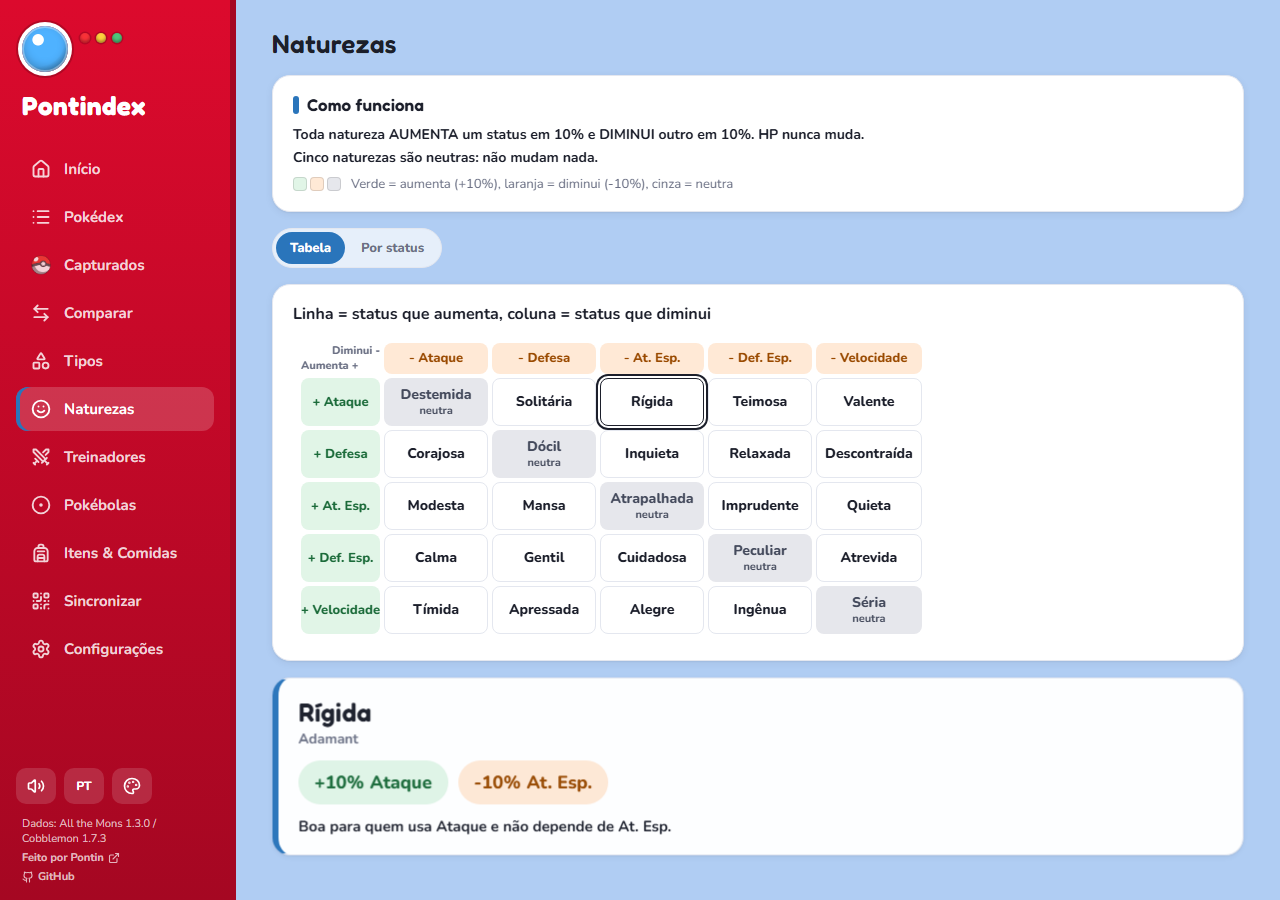
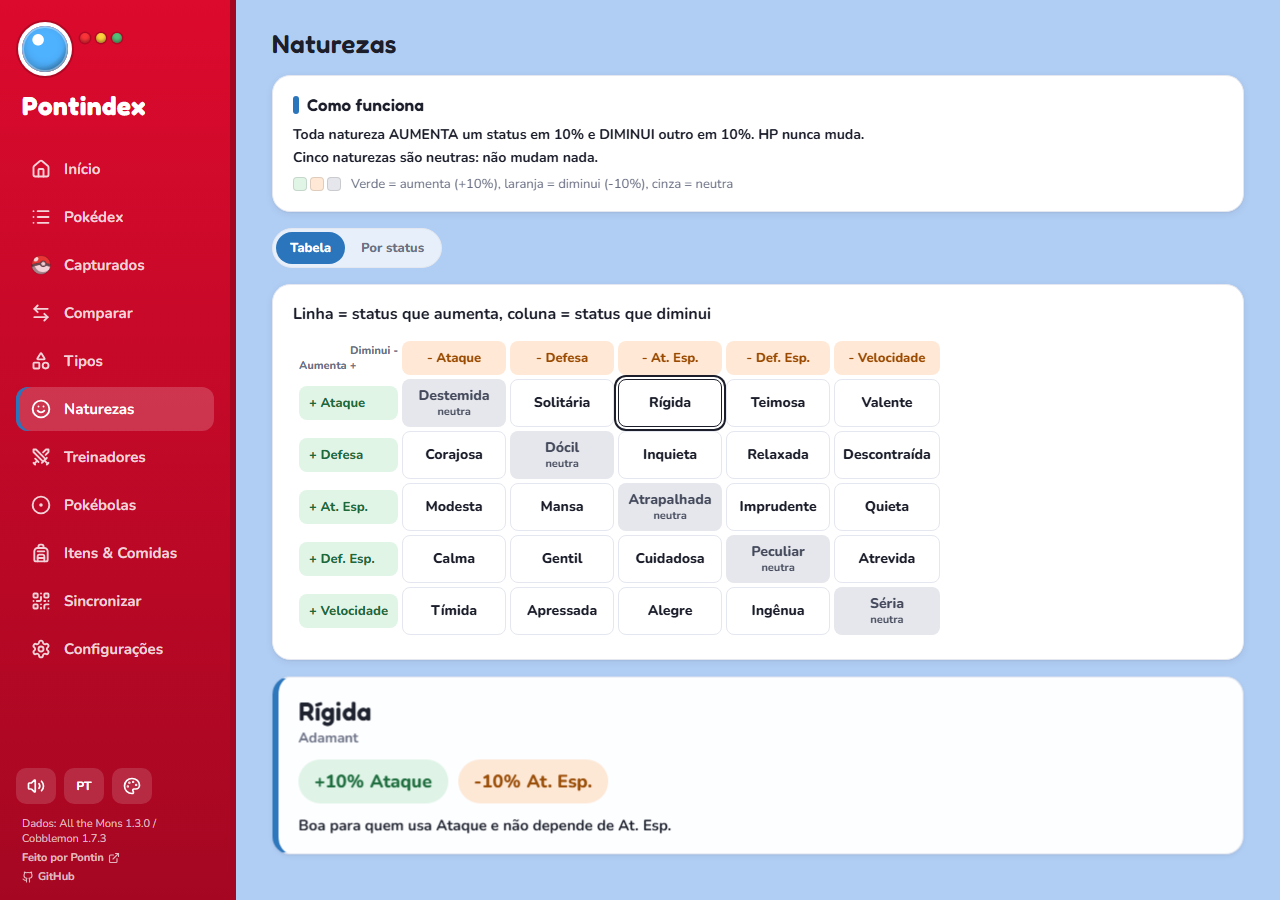
fix(natures): tabela no celular sem celula cortada atras da coluna fixa
Coluna fixa com fundo opaco em toda a celula (espacos viram padding, sem border-spacing); no celular larguras fixas, container com colunas inteiras e encaixe por coluna (3 colunas em 360 px); rotulo do canto cabe na celula. e2e cobre rolagem ate o fim em 360 e 390. Capturas refeitas, mais table-360-scrolled.

diff --git a/src/screens/Natures/natures.css b/src/screens/Natures/natures.css
@@ -13,21 +13,19 @@
 .natures-screen .nt-swatches { display: inline-flex; gap: 3px; flex: none; }
 .natures-screen .nt-swatches i { display: block; width: 14px; height: 14px; border-radius: 4px; border: 1px solid rgba(0, 0, 0, .12); }
 .natures-screen .nt-instr { margin: 0; font-weight: 700; color: var(--muted); }
-/* tabela 5 x 5: linha = aumenta (verde), coluna = diminui (laranja); 1a coluna fixa e opaca */
+/* tabela 5 x 5: linha = aumenta (verde), coluna = diminui (laranja). Sem border-spacing: o espaco entre os blocos e
+   padding da celula, entao a 1a coluna fixa tem fundo opaco em toda a largura e nada rolado aparece por baixo dela */
 .natures-screen .nt-caption { margin: 0 0 10px; font-weight: 700; }
 .natures-screen .nt-table-scroll { max-width: 100%; overflow-x: auto; overflow-y: hidden; padding: 4px; }
-.natures-screen .nt-table { border-collapse: separate; border-spacing: 4px; }
-.natures-screen .nt-table th, .natures-screen .nt-table td { padding: 0; text-align: center; vertical-align: middle; }
-.natures-screen .nt-col-head, .natures-screen .nt-row-head { border-radius: 8px; padding: 8px 10px; font-size: 13px; font-weight: 800; white-space: nowrap; }
-.natures-screen .nt-row-head { text-align: left; }
-.natures-screen .nt-corner { display: table-cell; font-size: 11px; font-weight: 800; color: var(--muted); line-height: 1.4; }
-.natures-screen .nt-corner span { display: block; white-space: nowrap; }
+.natures-screen .nt-table { border-collapse: separate; border-spacing: 0; }
+.natures-screen .nt-table th, .natures-screen .nt-table td { padding: 2px; text-align: center; vertical-align: middle; }
+.natures-screen .nt-head { display: block; border-radius: 8px; padding: 8px 10px; font-size: 13px; font-weight: 800; white-space: nowrap; }
+.natures-screen .nt-row-head .nt-head { text-align: left; }
+.natures-screen .nt-corner-box { display: grid; gap: 0; font-size: 11px; font-weight: 800; color: var(--muted); line-height: 1.4; }
+.natures-screen .nt-corner-box span { display: block; white-space: nowrap; }
 .natures-screen .nt-corner-col { text-align: right; }
 .natures-screen .nt-corner-row { text-align: left; }
-.natures-screen .nt-row-head, .natures-screen .nt-corner { position: sticky; left: 0; z-index: 1; }
-.natures-screen .nt-corner { background: var(--surface); box-shadow: -8px 0 0 var(--surface), 4px 0 0 var(--surface); }
-/* cobre o padding do container (4px) e o border-spacing (4px): nenhuma celula rolada aparece em volta da coluna fixa */
-.natures-screen .nt-row-head { box-shadow: -8px 0 0 var(--surface), 4px 0 0 var(--surface); }
+.natures-screen .nt-row-head, .natures-screen .nt-corner { position: sticky; left: 0; z-index: 1; background: var(--surface); }
 .natures-screen .nt-pick {
   display: grid; place-items: center; align-content: center; gap: 0; width: 100%; min-width: 104px; min-height: 48px; padding: 6px 8px;
   border-radius: 8px; border: 1px solid var(--border); background: var(--surface); color: var(--text);
@@ -75,10 +73,18 @@ html[data-theme="green"] .natures-screen :focus-visible, html[data-theme="blue"]
 .app.mobile .natures-screen .nt-legend-color { gap: 6px; margin-top: 4px; font-size: 12px; line-height: 1.25; }
 .app.mobile .natures-screen .nt-swatches i { width: 10px; height: 10px; border-radius: 3px; }
 .app.mobile .natures-screen .nt-caption { font-size: 13px; }
-.app.mobile .natures-screen .nt-table { border-spacing: 3px; }
-.app.mobile .natures-screen .nt-col-head, .app.mobile .natures-screen .nt-row-head { padding: 6px 6px; font-size: 11px; }
-.app.mobile .natures-screen .nt-corner { font-size: 10px; }
-.app.mobile .natures-screen .nt-pick { min-width: 84px; min-height: 42px; padding: 4px 6px; font-size: 12px; }
+/* tabela no celular: larguras fixas (1a coluna 72 px, colunas de dados 76 px com o padding; 3 colunas inteiras em 360 px), container com largura de
+   colunas inteiras (round) e encaixe por coluna: nenhuma celula fica cortada junto da coluna fixa, nem rolada ate o fim */
+.app.mobile .natures-screen .nt-table-scroll {
+  padding: 0; width: calc(72px + round(down, 100% - 72px, 76px)); scroll-snap-type: x mandatory; scroll-padding-left: 72px;
+}
+.app.mobile .natures-screen .nt-col-head { scroll-snap-align: start; }
+.app.mobile .natures-screen .nt-table-panel { padding: 12px 10px; }
+.app.mobile .natures-screen .nt-row-head .nt-head, .app.mobile .natures-screen .nt-corner-box { width: 68px; box-sizing: border-box; }
+.app.mobile .natures-screen .nt-head { padding: 6px 4px; font-size: 11px; white-space: normal; }
+.app.mobile .natures-screen .nt-col-head .nt-head { width: 72px; padding: 6px 2px; box-sizing: border-box; white-space: nowrap; }
+.app.mobile .natures-screen .nt-corner-box { font-size: 10px; }
+.app.mobile .natures-screen .nt-pick { width: 72px; min-width: 0; min-height: 42px; padding: 4px 2px; font-size: 11px; box-sizing: border-box; }
 .app.mobile .natures-screen .nt-neutral-mark { font-size: 10px; }
 .app.mobile .natures-screen .nt-band { padding: 10px 12px; }
 .app.mobile .natures-screen .nt-band h4 { font-size: 15px; }

diff --git a/tests/e2e/natures.spec.ts b/tests/e2e/natures.spec.ts
@@ -158,6 +158,49 @@ test.describe("table and focus", () => {
   }
 });
 
+test.describe("phone table scroll", () => {
+  for (const w of [360, 390]) {
+    test(`${w}px: the fixed first column masks everything under it and no cell is cut at either edge`, async ({ page }) => {
+      const errors = trackConsoleErrors(page);
+      await start(page, { w, h: 844 });
+      await openNatures(page);
+      const box = page.locator(".nt-table-scroll");
+      expect(await box.evaluate((e) => e.scrollWidth > e.clientWidth)).toBe(true);
+      // celulas de dados cortadas pela borda direita da coluna fixa ou pela borda direita do container
+      const cut = () =>
+        page.evaluate(() => {
+          const scroller = document.querySelector(".nt-table-scroll")!.getBoundingClientRect();
+          const edge = document.querySelector("tbody tr th")!.getBoundingClientRect().right;
+          return [...document.querySelectorAll(".nt-table td.nt-cell, .nt-table th.nt-col-head")]
+            .map((c) => c.getBoundingClientRect())
+            .filter((r) => (r.left < edge - 1 && r.right > edge + 1) || (r.left < scroller.right - 1 && r.right > scroller.right + 1)).length;
+        });
+      const masked = () =>
+        page.evaluate(() => {
+          const heads = [...document.querySelectorAll(".nt-corner, .nt-row-head")];
+          return heads.every((h) => {
+            const r = h.getBoundingClientRect();
+            const bg = getComputedStyle(h).backgroundColor;
+            // ponto no espaco entre o bloco colorido e a borda direita da celula fixa: tem de ser a propria celula fixa
+            const el = document.elementFromPoint(r.right - 1, r.top + r.height / 2);
+            return /^rgb\(/.test(bg) && !!el && (el === h || h.contains(el));
+          });
+        });
+      expect(await cut()).toBe(0);
+      await box.evaluate((e) => (e.scrollLeft = e.scrollWidth));
+      await expect.poll(() => box.evaluate((e) => e.scrollLeft)).toBeGreaterThan(0);
+      await expect.poll(cut).toBe(0);
+      expect(await masked()).toBe(true);
+      await page.locator('[data-nature="adamant"]').click();
+      await expect.poll(cut).toBe(0);
+      await expect
+        .poll(() => page.locator(".nt-corner-box span").evaluateAll((els) => els.every((e) => e.scrollWidth <= e.clientWidth + 0.5)))
+        .toBe(true);
+      expect(errors).toEqual([]);
+    });
+  }
+});
+
 test.describe("by stat", () => {
   test("Speed shows the 4 natures that raise it, the 4 that lower it and the 5 neutral ones", async ({ page }) => {
     const errors = trackConsoleErrors(page);
@@ -188,8 +231,8 @@ test.describe("themes", () => {
       const errors = trackConsoleErrors(page);
       await start(page, DESK, "pt", theme);
       await openNatures(page);
-      await expect(page.locator(".nt-row-head").first()).toHaveCSS("background-color", BG.adv);
-      await expect(page.locator(".nt-col-head").first()).toHaveCSS("background-color", BG.dis);
+      await expect(page.locator(".nt-row-head .nt-head").first()).toHaveCSS("background-color", BG.adv);
+      await expect(page.locator(".nt-col-head .nt-head").first()).toHaveCSS("background-color", BG.dis);
       await expect(page.locator('[data-neutral="true"]').first()).toHaveCSS("background-color", BG.zero);
       await view(page, "byStat");
       await page.locator('[data-stat="attack"]').click();

diff --git a/src/screens/Natures/NatureTable.tsx b/src/screens/Natures/NatureTable.tsx
@@ -1,5 +1,6 @@
 // Tabela 5 x 5 das naturezas: linha = status que aumenta (verde, +), coluna = status que diminui (laranja, -).
-// Celula = botao com o nome; diagonal = natureza neutra em cinza. Primeira coluna fixa; so o container rola.
+// Celula = botao com o nome; diagonal = natureza neutra em cinza. Primeira coluna fixa e opaca (fundo da celula inteira,
+// inclusive o espaco entre os blocos); so o container rola, e no celular ele encaixa coluna a coluna.
 import { memo } from "react";
 import { useT } from "../../i18n/useT";
 import { useScreenUi } from "../../navigation/useNavigation";
@@ -23,22 +24,26 @@ export const NatureTable = memo(function NatureTable() {
           <thead>
             <tr>
               <td className="nt-corner">
-                <span className="nt-corner-col">
-                  {t("natures.cornerCol")} {MINUS}
-                </span>
-                <span className="nt-corner-row">
-                  {t("natures.cornerRow")} {PLUS}
-                </span>
+                <div className="nt-corner-box">
+                  <span className="nt-corner-col">
+                    {t("natures.cornerCol")} {MINUS}
+                  </span>
+                  <span className="nt-corner-row">
+                    {t("natures.cornerRow")} {PLUS}
+                  </span>
+                </div>
               </td>
               {ROWS.map((r) => (
                 <th
                   key={r.up}
                   scope="col"
-                  className="nt-col-head tone-dis"
+                  className="nt-col-head"
                   data-down={r.up}
                   aria-label={t("natures.colHeader", { stat: t(STAT_LABEL[r.up]) })}
                 >
-                  {MINUS} {t(STAT_LABEL[r.up])}
+                  <span className="nt-head tone-dis">
+                    {MINUS} {t(STAT_LABEL[r.up])}
+                  </span>
                 </th>
               ))}
             </tr>
@@ -46,8 +51,10 @@ export const NatureTable = memo(function NatureTable() {
           <tbody>
             {ROWS.map((row) => (
               <tr key={row.up} data-up={row.up}>
-                <th scope="row" className="nt-row-head tone-adv" aria-label={t("natures.rowHeader", { stat: t(STAT_LABEL[row.up]) })}>
-                  {PLUS} {t(STAT_LABEL[row.up])}
+                <th scope="row" className="nt-row-head" aria-label={t("natures.rowHeader", { stat: t(STAT_LABEL[row.up]) })}>
+                  <span className="nt-head tone-adv">
+                    {PLUS} {t(STAT_LABEL[row.up])}
+                  </span>
                 </th>
                 {row.cells.map((c) => {
                   const on = c.nature.id === selected;
